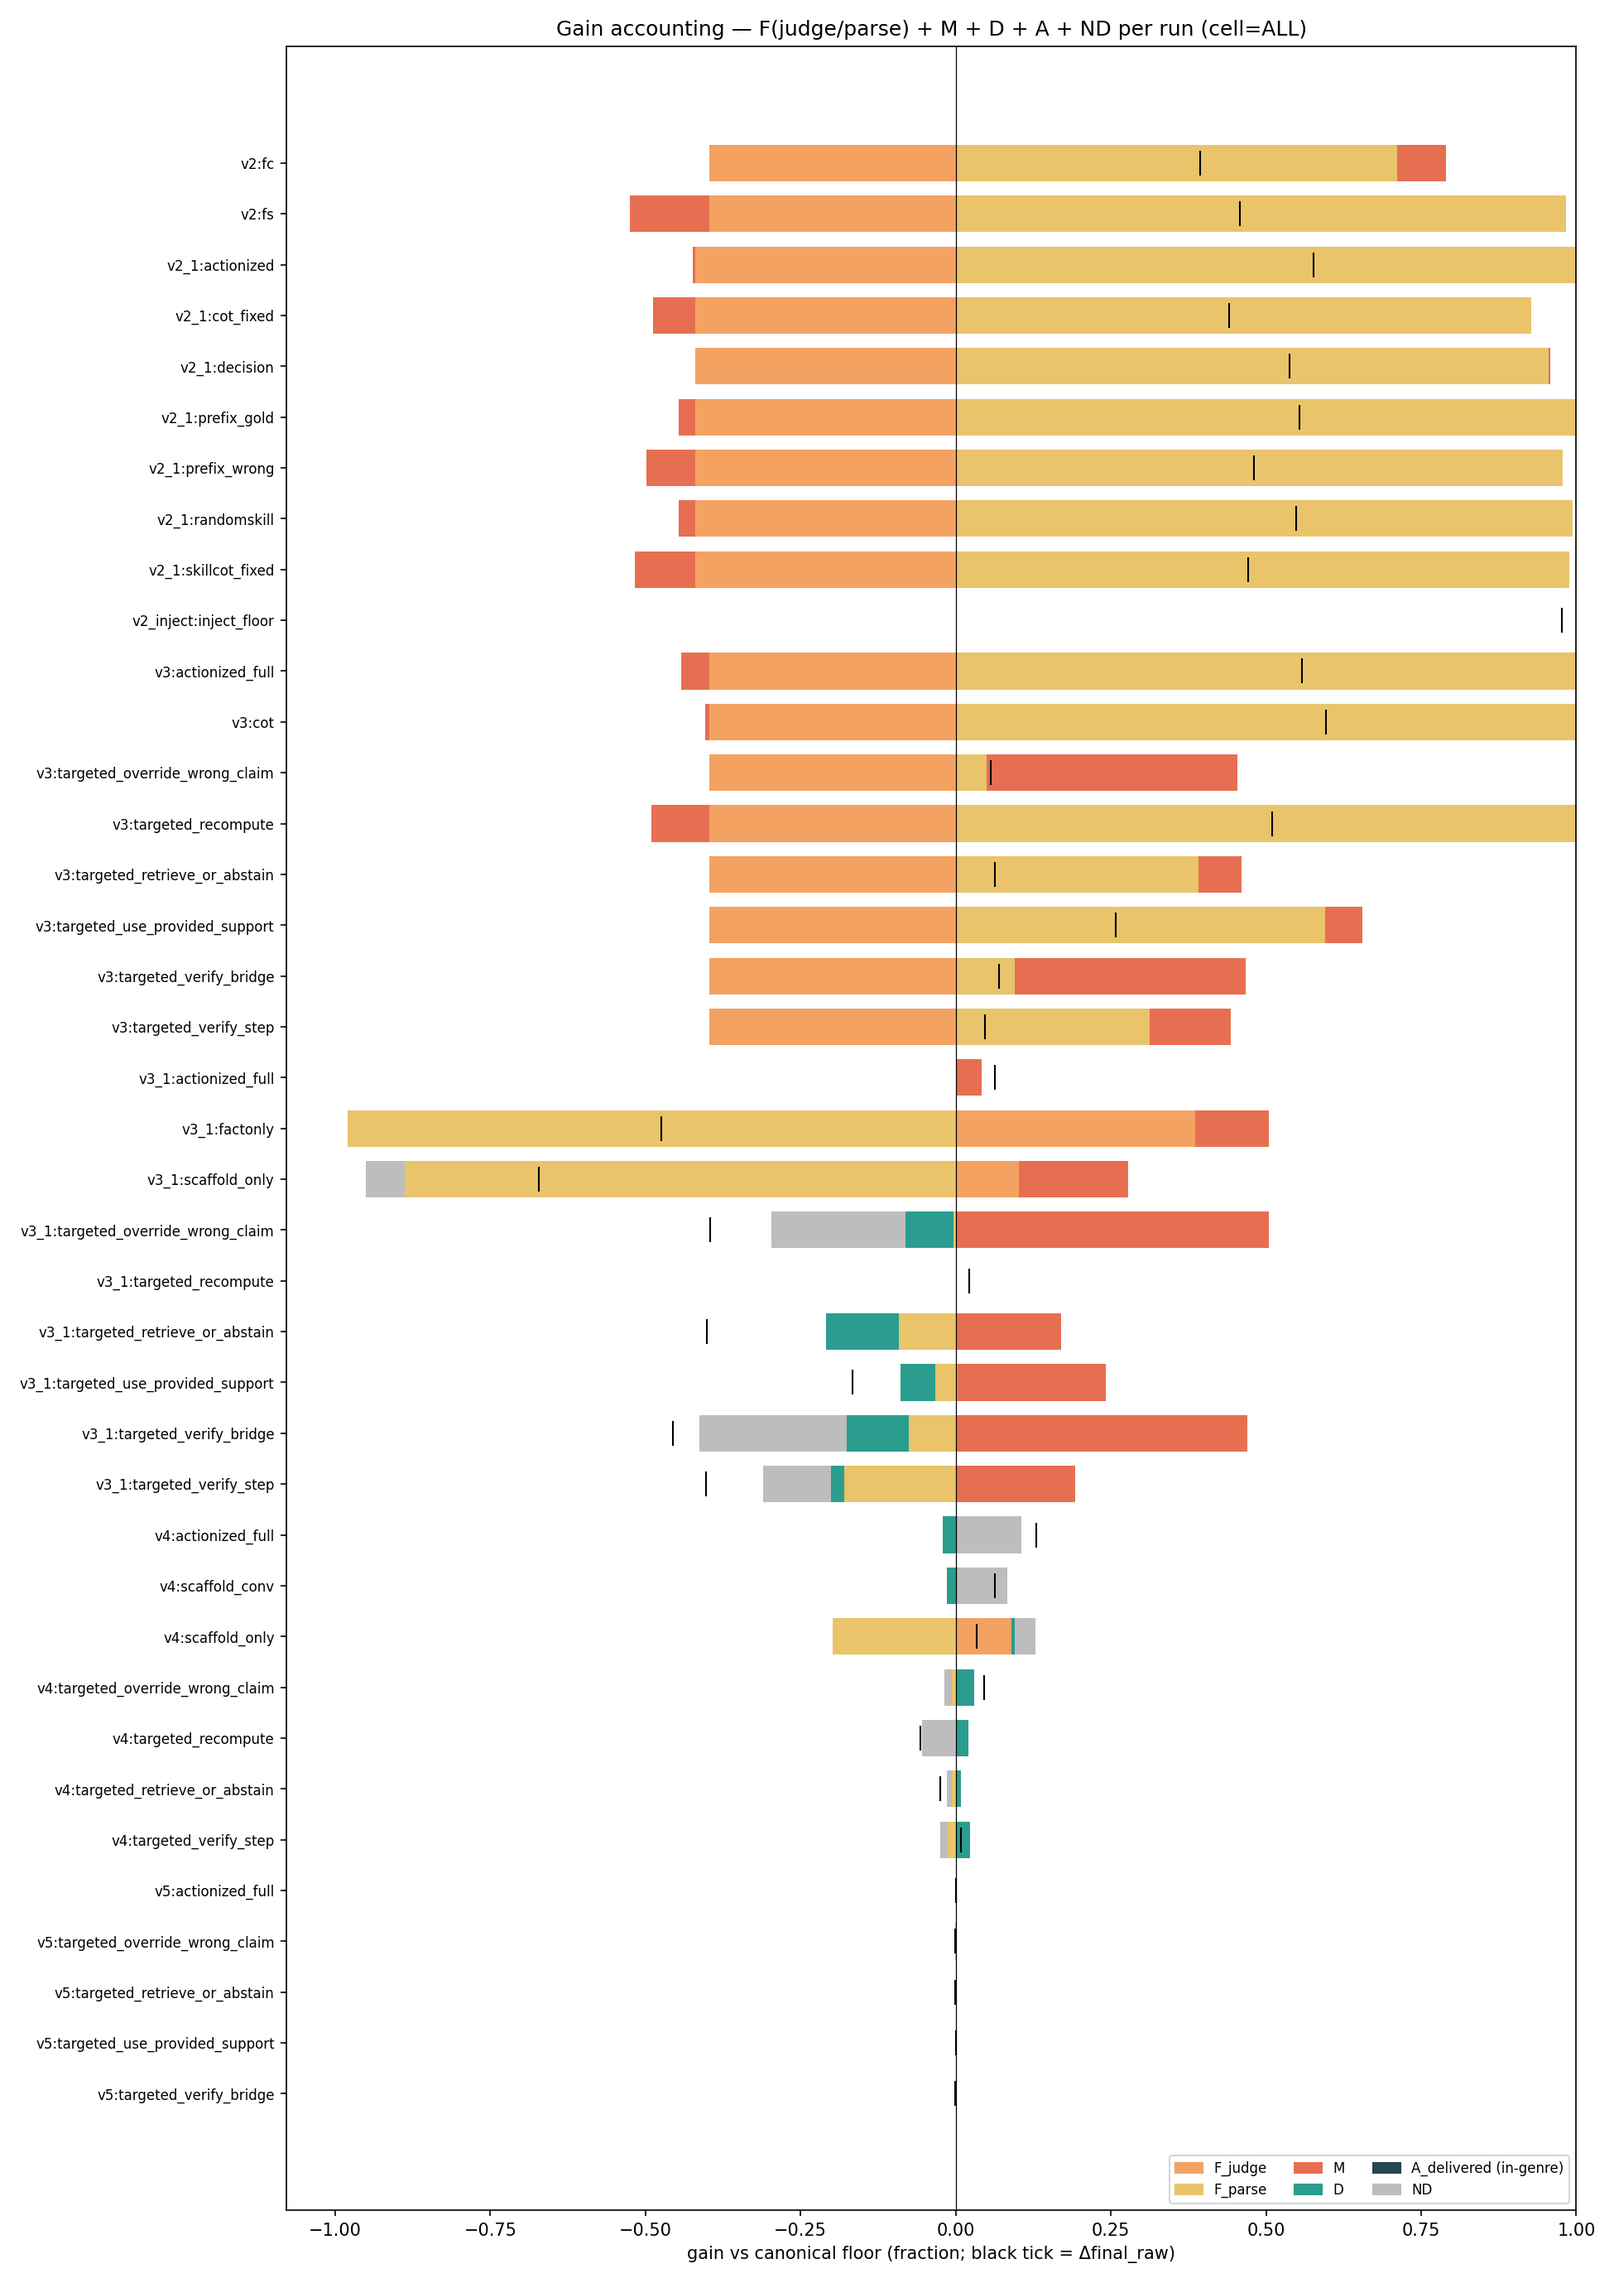
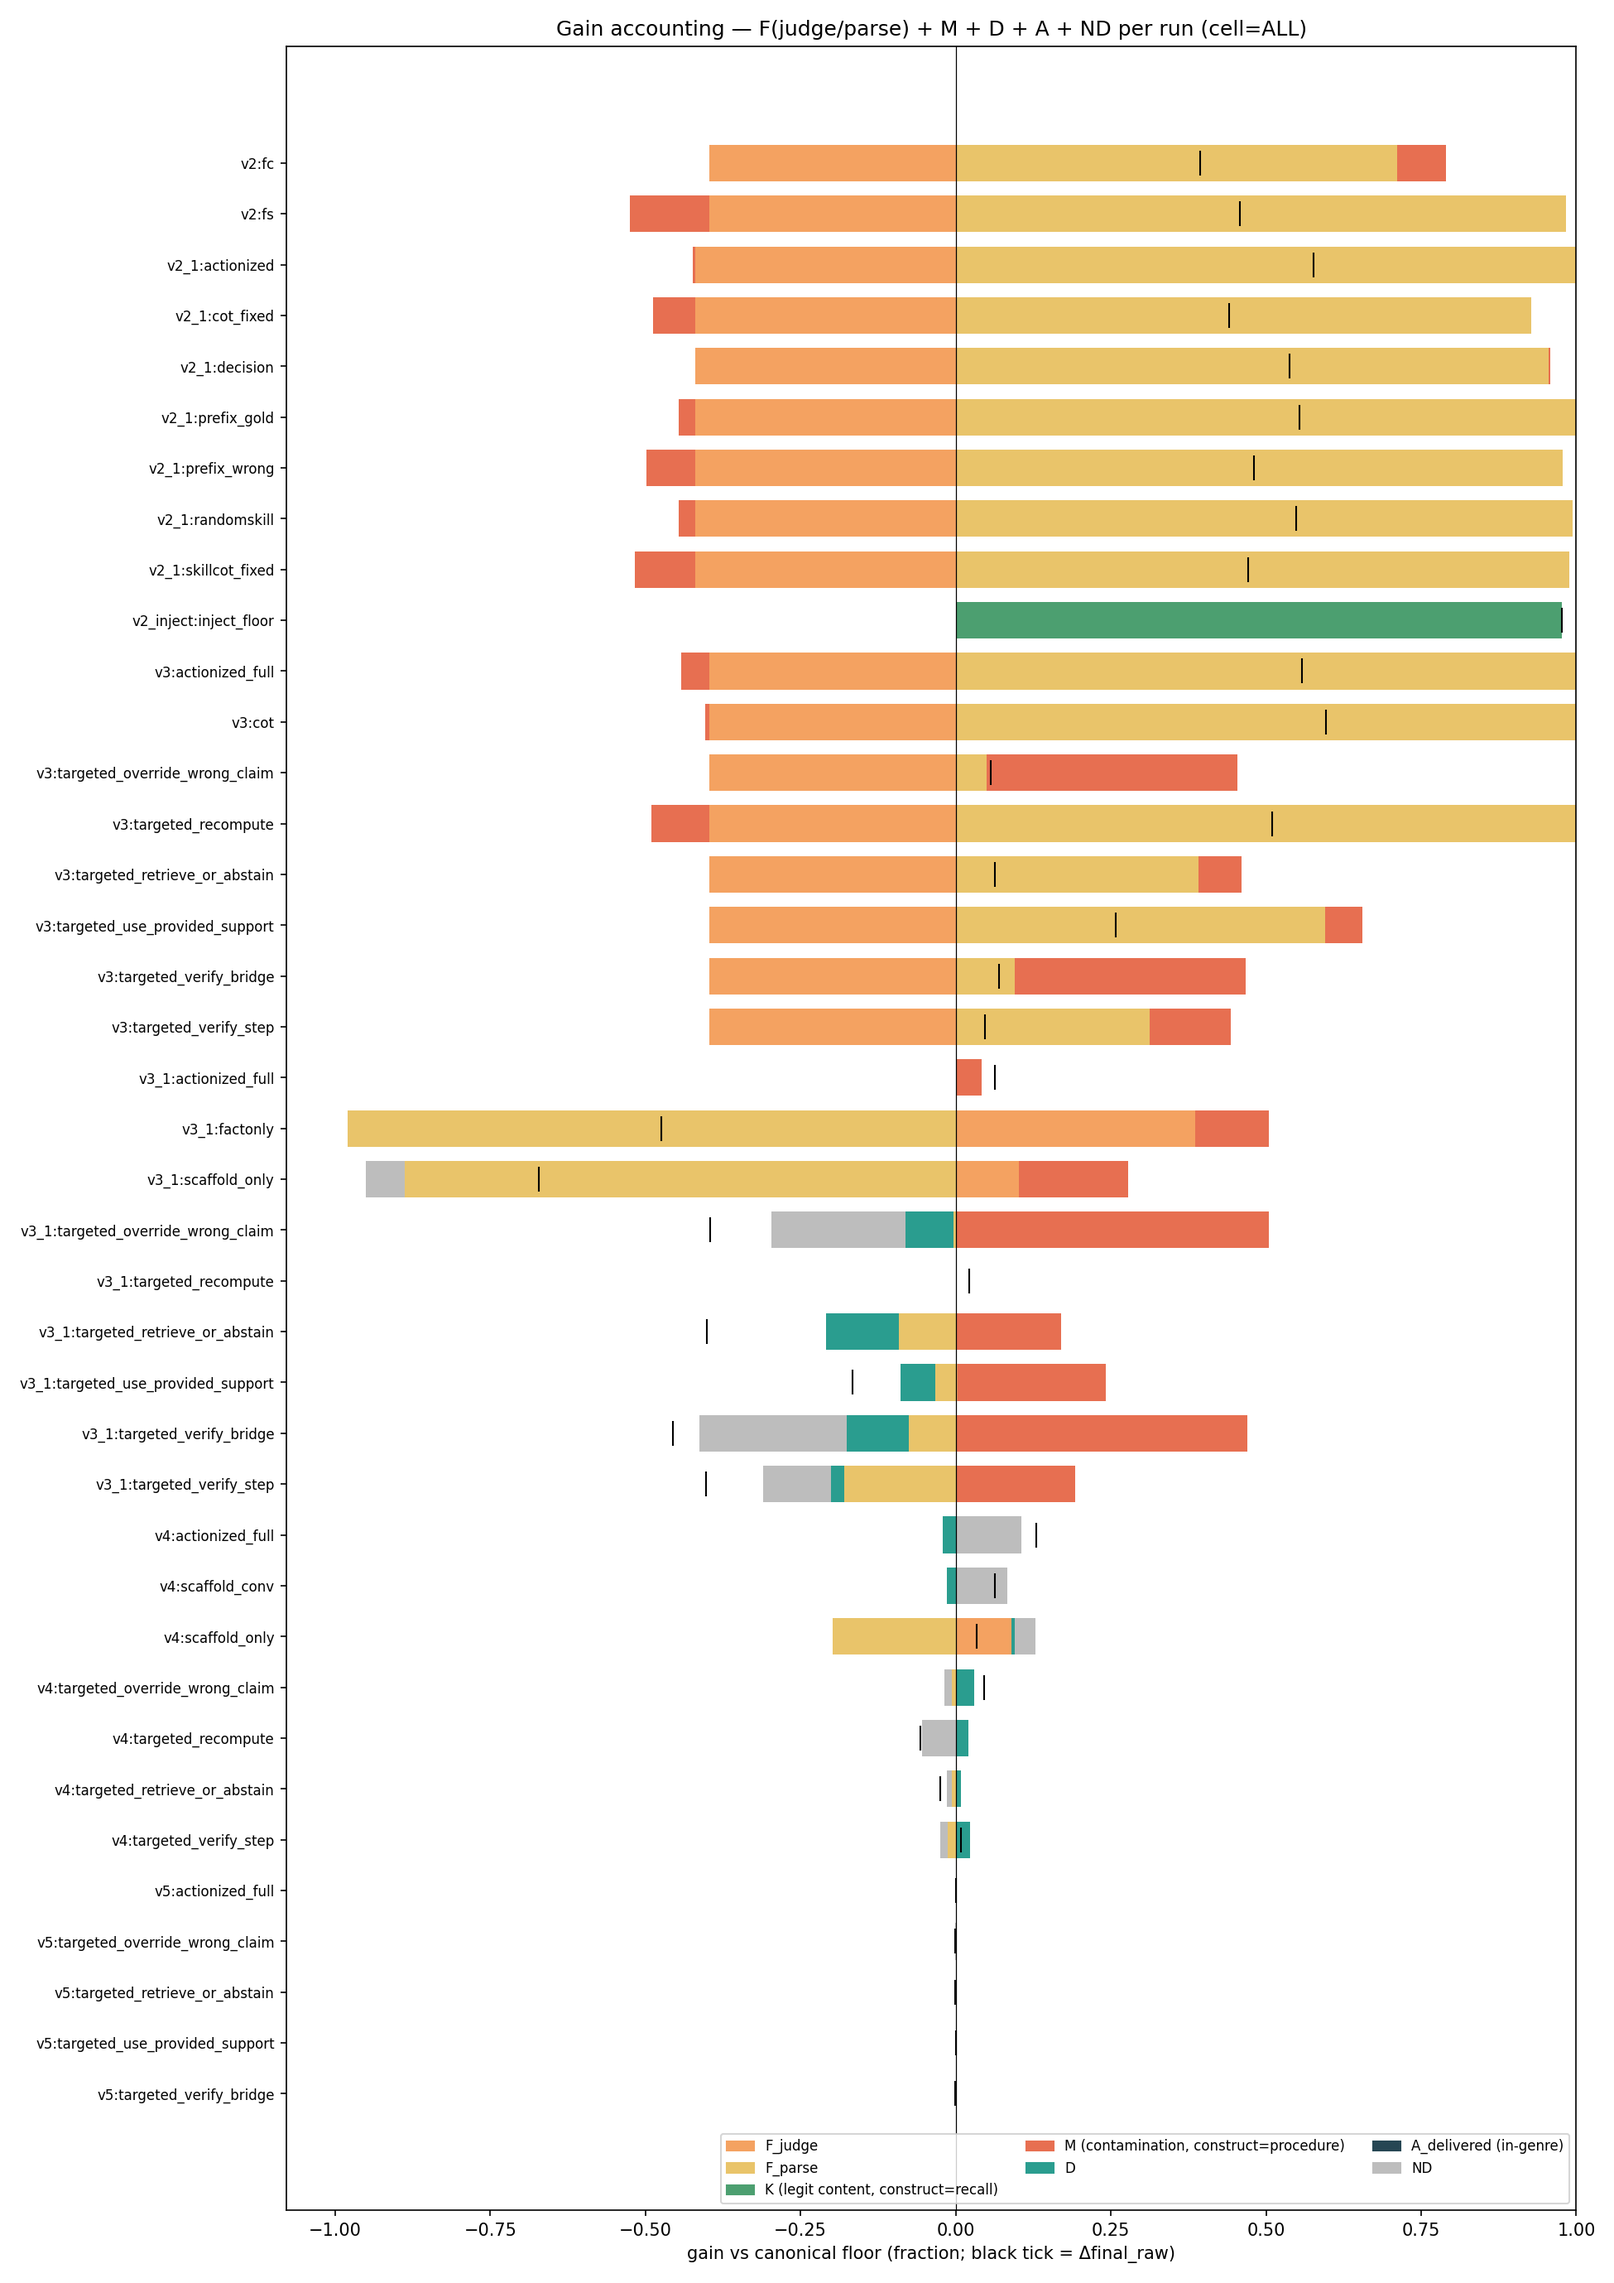
fig_ledger K/M split-colour remake (C-10 fig task); ledger rebuilt

diff --git a/ledger/build_ledger.py b/ledger/build_ledger.py
@@ -414,10 +414,11 @@ def make_fig(rows):
                                                                "cumulative_"))]
     sel.sort(key=lambda r: (r["domain"], r["ckpt"]))
     labels = [f"{r['domain']}:{r['ckpt']}" for r in sel]
-    chans = ["F_judge", "F_parse", "M", "D", "A", "ND"]  # A rendered as A_delivered in legend
-    colors = {"F_judge": "#f4a261", "F_parse": "#e9c46a", "M": "#e76f51",
+    chans = ["F_judge", "F_parse", "K", "M", "D", "A", "ND"]  # C-10: K/M split colours; A -> A_delivered
+    colors = {"F_judge": "#f4a261", "F_parse": "#e9c46a", "K": "#4c9f70", "M": "#e76f51",
               "D": "#2a9d8f", "A": "#264653", "ND": "#bdbdbd"}
-    legend_names = {"A": "A_delivered (in-genre)"}
+    legend_names = {"A": "A_delivered (in-genre)", "K": "K (legit content, construct=recall)",
+                    "M": "M (contamination, construct=procedure)"}
     fig, ax = plt.subplots(figsize=(13, 0.42 * len(sel) + 2))
     y = np.arange(len(sel))
     for r_i, r in enumerate(sel):
